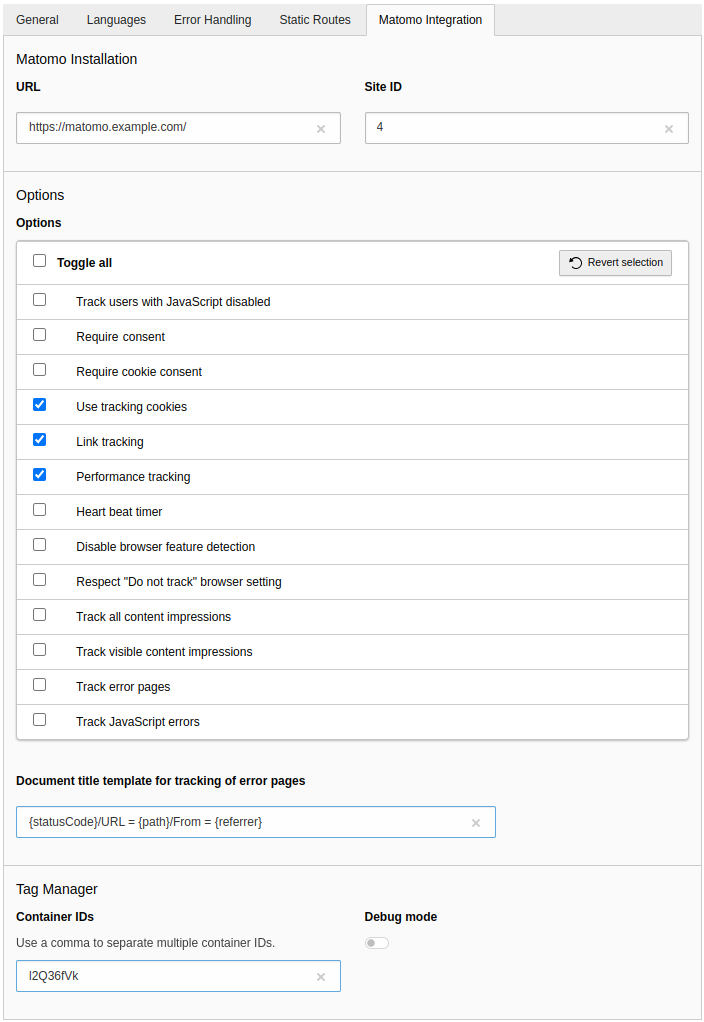
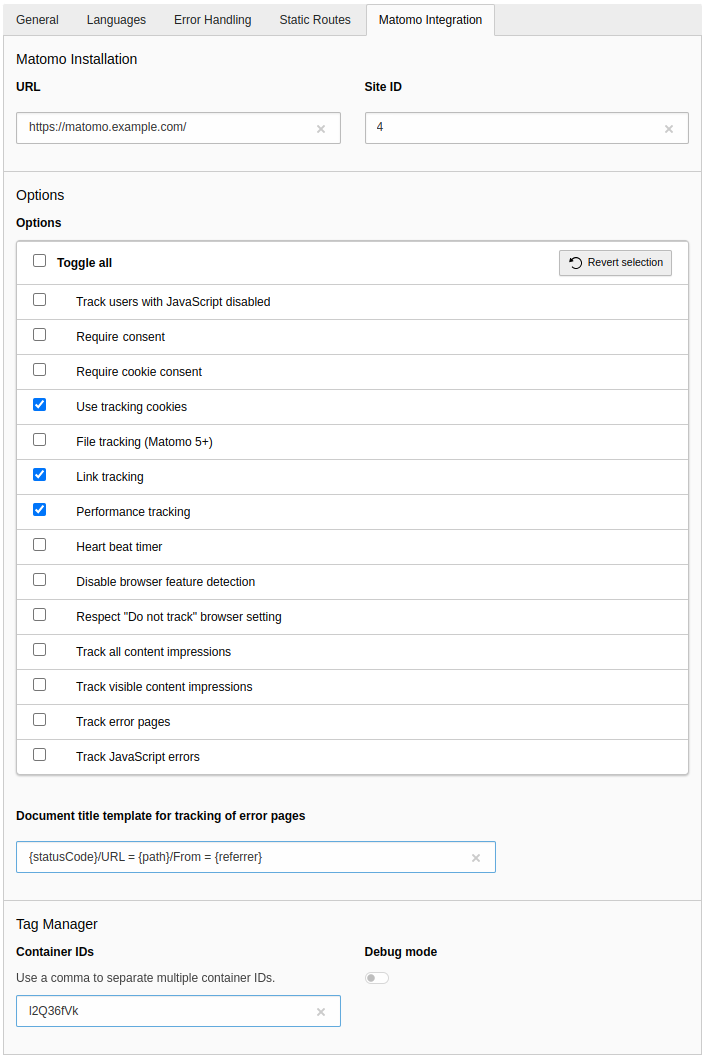
feat: add option for file tracking in Matomo 5+
resolves: #25

diff --git a/Tests/Unit/EventListener/FileTrackingTest.php b/Tests/Unit/EventListener/FileTrackingTest.php
@@ -1,0 +1,70 @@
+<?php
+
+declare(strict_types=1);
+
+/*
+ * This file is part of the "matomo_integration" extension for TYPO3 CMS.
+ *
+ * For the full copyright and license information, please read the
+ * LICENSE.txt file that was distributed with this source code.
+ */
+
+namespace Brotkrueml\MatomoIntegration\Tests\Unit\EventListener;
+
+use Brotkrueml\MatomoIntegration\Entity\Configuration;
+use Brotkrueml\MatomoIntegration\Event\BeforeTrackPageViewEvent;
+use Brotkrueml\MatomoIntegration\EventListener\FileTracking;
+use PHPUnit\Framework\MockObject\Stub;
+use PHPUnit\Framework\TestCase;
+use Psr\Http\Message\ServerRequestInterface;
+
+final class FileTrackingTest extends TestCase
+{
+    /**
+     * @var Stub&ServerRequestInterface
+     */
+    private Stub $requestStub;
+    private FileTracking $subject;
+
+    protected function setUp(): void
+    {
+        $this->requestStub = $this->createStub(ServerRequestInterface::class);
+        $this->subject = new FileTracking();
+    }
+
+    /**
+     * @test
+     */
+    public function disabledOption(): void
+    {
+        $configuration = Configuration::createFromSiteConfiguration([
+            'matomoIntegrationUrl' => 'https://www.example.net/',
+            'matomoIntegrationSiteId' => 123,
+        ]);
+
+        $event = new BeforeTrackPageViewEvent($configuration, $this->requestStub);
+        $this->subject->__invoke($event);
+
+        $actual = $event->getMatomoMethodCalls();
+        self::assertCount(0, $actual);
+    }
+
+    /**
+     * @test
+     */
+    public function enabledOption(): void
+    {
+        $configuration = Configuration::createFromSiteConfiguration([
+            'matomoIntegrationUrl' => 'https://www.example.net/',
+            'matomoIntegrationSiteId' => 123,
+            'matomoIntegrationOptions' => 'fileTracking',
+        ]);
+
+        $event = new BeforeTrackPageViewEvent($configuration, $this->requestStub);
+        $this->subject->__invoke($event);
+
+        $actual = $event->getMatomoMethodCalls();
+        self::assertCount(1, $actual);
+        self::assertSame('_paq.push(["enableFileTracking"]);', (string)$actual[0]);
+    }
+}

diff --git a/Tests/Unit/Entity/ConfigurationTest.php b/Tests/Unit/Entity/ConfigurationTest.php
@@ -31,6 +31,7 @@ final class ConfigurationTest extends TestCase
         self::assertFalse($subject->cookieTracking);
         self::assertFalse($subject->disableBrowserFeatureDetection);
         self::assertSame('', $subject->errorPagesTemplate);
+        self::assertFalse($subject->fileTracking);
         self::assertFalse($subject->heartBeatTimer);
         self::assertFalse($subject->linkTracking);
         self::assertFalse($subject->performanceTracking);
@@ -161,6 +162,18 @@ final class ConfigurationTest extends TestCase
         ]);
 
         self::assertTrue($subject->heartBeatTimer);
+    }
+
+    /**
+     * @test
+     */
+    public function createFromSiteConfigurationWithFileTrackingEnabledSetsInstanceValuesCorrectly(): void
+    {
+        $subject = Configuration::createFromSiteConfiguration([
+            'matomoIntegrationOptions' => 'fileTracking',
+        ]);
+
+        self::assertTrue($subject->fileTracking);
     }
 
     /**

diff --git a/Classes/EventListener/FileTracking.php b/Classes/EventListener/FileTracking.php
@@ -1,0 +1,27 @@
+<?php
+
+declare(strict_types=1);
+
+/*
+ * This file is part of the "matomo_integration" extension for TYPO3 CMS.
+ *
+ * For the full copyright and license information, please read the
+ * LICENSE.txt file that was distributed with this source code.
+ */
+
+namespace Brotkrueml\MatomoIntegration\EventListener;
+
+use Brotkrueml\MatomoIntegration\Event\BeforeTrackPageViewEvent;
+
+/**
+ * @internal
+ */
+final class FileTracking
+{
+    public function __invoke(BeforeTrackPageViewEvent $event): void
+    {
+        if ($event->getConfiguration()->fileTracking) {
+            $event->addMatomoMethodCall('enableFileTracking');
+        }
+    }
+}

diff --git a/Configuration/SiteConfiguration/Overrides/sites.php b/Configuration/SiteConfiguration/Overrides/sites.php
@@ -45,6 +45,10 @@ $GLOBALS['SiteConfiguration']['site']['columns'] += [
                     'value' => 'cookieTracking',
                 ],
                 [
+                    'label' => Brotkrueml\MatomoIntegration\Extension::LANGUAGE_PATH_SITECONF . ':fileTracking',
+                    'value' => 'fileTracking',
+                ],
+                [
                     'label' => Brotkrueml\MatomoIntegration\Extension::LANGUAGE_PATH_SITECONF . ':linkTracking',
                     'value' => 'linkTracking',
                 ],

diff --git a/Classes/Entity/Configuration.php b/Classes/Entity/Configuration.php
@@ -51,6 +51,10 @@ final class Configuration
     /**
      * @readonly
      */
+    public bool $fileTracking = false;
+    /**
+     * @readonly
+     */
     public bool $heartBeatTimer = false;
     /**
      * @readonly

diff --git a/Documentation/Configuration/Index.rst b/Documentation/Configuration/Index.rst
@@ -84,6 +84,20 @@ Cookie tracking
 
    Default: *enabled*
 
+File tracking
+   .. versionadded:: 1.8.0
+
+   This option has been introduced with Matomo 5 and enables the
+   `file:// protocol tracking`_.
+
+   Default: *disabled*
+
+   .. attention::
+      Enabling this option may track personal data: Someone downloads a page
+      from your website and stores it locally. Then the user opens it and the
+      user will be tracked. The URL might look like
+      :samp:`file:///C:/Users/myname/AppData/Local/...`
+
 Link tracking
    This option enables the `download and outlink tracking`_.
 
@@ -213,6 +227,7 @@ Debug Mode
 .. _download and outlink tracking: https://matomo.org/faq/new-to-piwik/faq_71/
 .. _enables cookies tracking: https://matomo.org/faq/general/faq_157/
 .. _feature request: https://github.com/brotkrueml/typo3-matomo-integration/issues/new
+.. _file:// protocol tracking: https://matomo.org/faq/how-to/enable-file-protocol-tracking/
 .. _How to track error pages: https://matomo.org/faq/how-to/faq_60/
 .. _Implementing tracking or cookie consent with the Matomo JavaScript Tracking Client: https://developer.matomo.org/guides/tracking-consent
 .. _JavaScript errors: https://matomo.org/faq/how-to/how-do-i-enable-basic-javascript-error-tracking-and-reporting-in-matomo-browser-console-error-messages/

diff --git a/Documentation/Changelog/Index.rst b/Documentation/Changelog/Index.rst
@@ -11,6 +11,12 @@ and this project adheres to `Semantic Versioning <https://semver.org/spec/v2.0.0
 `Unreleased <https://github.com/brotkrueml/typo3-matomo-integration/compare/v1.7.0...HEAD>`_
 ------------------------------------------------------------------------------------------------
 
+Added
+^^^^^
+
+
+* Option for file tracking in Matomo 5+ (#25)
+
 `1.7.0 <https://github.com/brotkrueml/typo3-matomo-integration/compare/v1.6.0...v1.7.0>`_ - 2023-07-31
 ----------------------------------------------------------------------------------------------------------
 

diff --git a/CHANGELOG.md b/CHANGELOG.md
@@ -6,6 +6,9 @@ and this project adheres to [Semantic Versioning](https://semver.org/spec/v2.0.0
 
 ## [Unreleased]
 
+### Added
+- Option for file tracking in Matomo 5+ (#25)
+
 ## [1.7.0] - 2023-07-31
 
 ### Added
